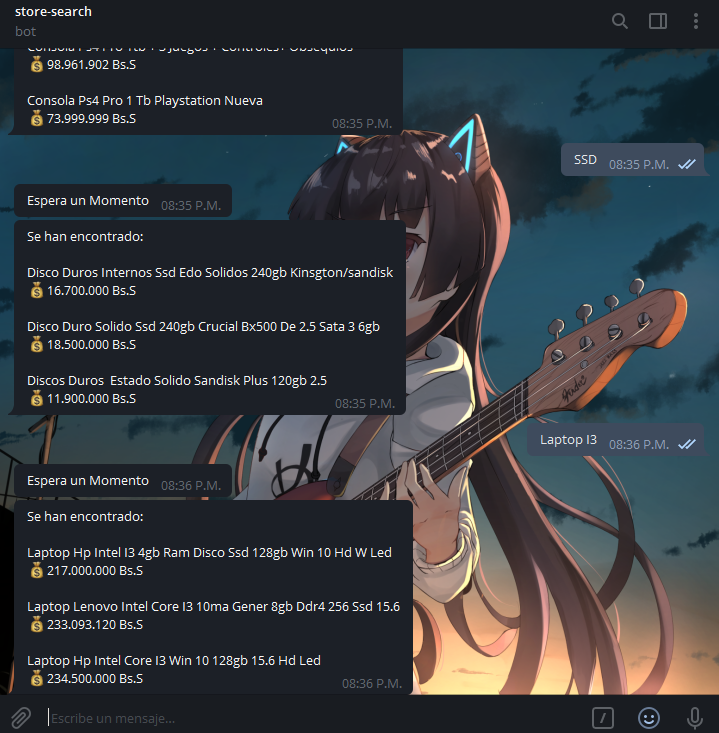
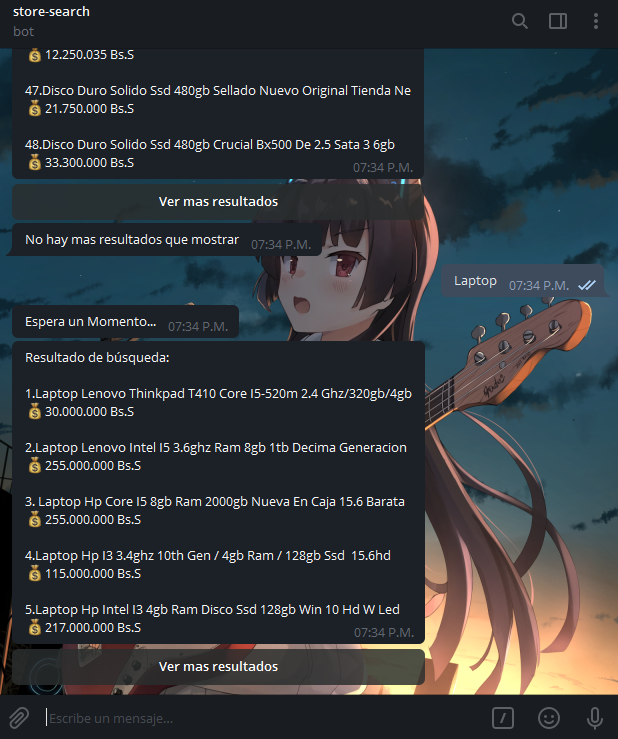
Cambios +Se limpió un poco el código +Ahora el bot es capaz de mostrar mas resultados de búsqueda

diff --git a/src/Petitions.ts b/src/Petitions.ts
@@ -1,68 +1,27 @@
-import request from 'request-promise'
-import cheerio from 'cheerio'
-
+import { init, more } from "./request";
+let msj: string = "";
 //Definimos la clase
 
-class Petitions { 
+class petitions {
+	public start(ctx: any) {
+		ctx.reply(
+			"Hola!,este bot hace scraping a la pagina Mercadolibre Venezuela"
+		);
+	}
 
-	public start (ctx:any) {
-	   ctx.reply('Hola!,este bot hace scraping a la pagina Mercadolibre Venezuela,solo mostrara los 3 primeros resultados de una búsqueda')
+	public help(ctx: any) {
+		ctx.reply("Muy simple,solo escribe lo que quieras buscar y es todo!");
+	}
+
+	public search(ctx: any) {
+		msj = ctx.message.text;
+		ctx.reply("Espera un Momento...");
+		init(ctx, msj, 0);
+	}
+
+	public more(ctx: any) {
+		more(ctx, 5);
+	}
 }
 
-
-    public help (ctx:any){
-	   ctx.reply('Muy simple,solo escribe lo que quieras buscar y es todo!')
-   }
-
-
-
-     public search(ctx:any){
-		const msj = ctx.message.text
-        ctx.reply('Espera un Momento...')
-        init(msj)
-        
-//Hace la peticion
-async function init(msj:string){ 
-	
-const $ = await request({uri: `https://listado.mercadolibre.com.ve/${msj}#D[A:${msj}]`,
-transform: body => cheerio.load(body,{ decodeEntities: false })
-}).catch((err)=>{
-	ctx.reply('Ah ocurrido un error,sorry :c')
-})
-
-//Busca los 3 primeros resultados de la busqueda
-
-const name_product_1 = $('ol li').find('div div h2')
-const name_product_2 = $('ol li').next().find('div div h2')
-const name_product_3 = $('ol li').next().next().find('div div h2')
-const price_product_1 = $('ol li').find('div div span .price-tag-fraction')
-const price_product_2 = $('ol li').next().find('div div span .price-tag-fraction')
-const price_product_3 = $('ol li').next().next().find('div div span .price-tag-fraction')
-
-//Imprime los resultados de la busqueda
-
-const resultado:string = 'Se han encontrado: \n\n' + name_product_1.html() + '\n' + '💰' + price_product_1.html() + ' Bs.S' 
-		 + '\n\n'
-		 + name_product_2.html() + '\n' + '💰' + price_product_2.html() + ' Bs.S'
-		 + '\n\n'
-		 + name_product_3.html() + '\n' + '💰' + price_product_3.html() + ' Bs.S'
-
-
-ctx.reply(resultado)
-
-
-}
-
-
-}
-
-
-
-}
-
-
-
-
-
-export const StartPetitions = new Petitions() 
-
+export const StartPetitions = new petitions();

diff --git a/src/request.ts b/src/request.ts
@@ -1,0 +1,77 @@
+import request from "request-promise";
+import cheerio from "cheerio";
+let indexNumber: number = 0;
+let finish: number = 0;
+let ArrayResults: string[] = [];
+
+//Hace la petición
+
+export async function init(ctx: any, msj: string, initial: number) {
+
+	ArrayResults = []; //Por cada nueva búsqueda reinicia el array
+
+	const $ = await request({
+		uri: `https://listado.mercadolibre.com.ve/${msj}#D[A:${msj}]`,
+		transform: (body) => cheerio.load(body, { decodeEntities: false }),
+	}).catch((err) => {
+		ctx.reply("Ah ocurrido un error,sorry :c");
+	});
+
+	//Busca los resultados de la búsqueda según los parámetros recibidos
+
+	indexNumber = initial;
+
+	$("ol li.ui-search-layout__item").each((i: number, el: string) => {
+		const Products_Name: string = $(el)
+			.find("div.ui-search-result__wrapper div a h2")
+			.html();
+		const Price_Product: number = $(el)
+			.find(
+				"div.ui-search-result__wrapper div div div div span span.price-tag-fraction"
+			)
+			.html();
+		finish = i + indexNumber + 1;
+		ArrayResults.push(
+			    (i + 1) +
+				"." +
+				Products_Name +
+				"\n" +
+				"💰" +
+				Price_Product +
+				" Bs.S" +
+				"\n\n"
+		);
+	});
+
+	more(ctx, 0);
+}
+
+export function more(ctx: any, number: number) {
+	let messageOut: string = "";
+
+	//Suma el indice de busqueda en el array
+
+	indexNumber += number;
+
+	if (indexNumber > finish) {
+		messageOut = "";
+	} else {
+		for (var i = indexNumber; i < indexNumber + 5; i++) {
+			if (ArrayResults[i]) {
+				messageOut += ArrayResults[i];
+			}
+		}
+	}
+
+	if (messageOut == "") {
+		ctx.reply("No hay mas resultados que mostrar");
+	} else {
+		ctx.reply("Resultado de búsqueda:" + "\n\n" + messageOut, {
+			reply_markup: {
+				inline_keyboard: [
+					[{ text: "Ver mas resultados", callback_data: "more" }],
+				],
+			},
+		});
+	}
+}

diff --git a/src/index.ts b/src/index.ts
@@ -1,6 +1,6 @@
 const Telegraf = require('telegraf')
 import {Bot_token} from './key'
-import {StartPetitions} from './Petitions'
+import {StartPetitions} from './petitions'
 
 const bot = new Telegraf(Bot_token)
 
@@ -9,5 +9,7 @@ bot.start(StartPetitions.start) //Bienvenida
 bot.help(StartPetitions.help) //Ayuda
 
 bot.on('text', StartPetitions.search) //Recibe texto y luego busca
+
+bot.action('more',StartPetitions.more) //Muestra mas resultado de la misma busqueda
 
 bot.launch()
